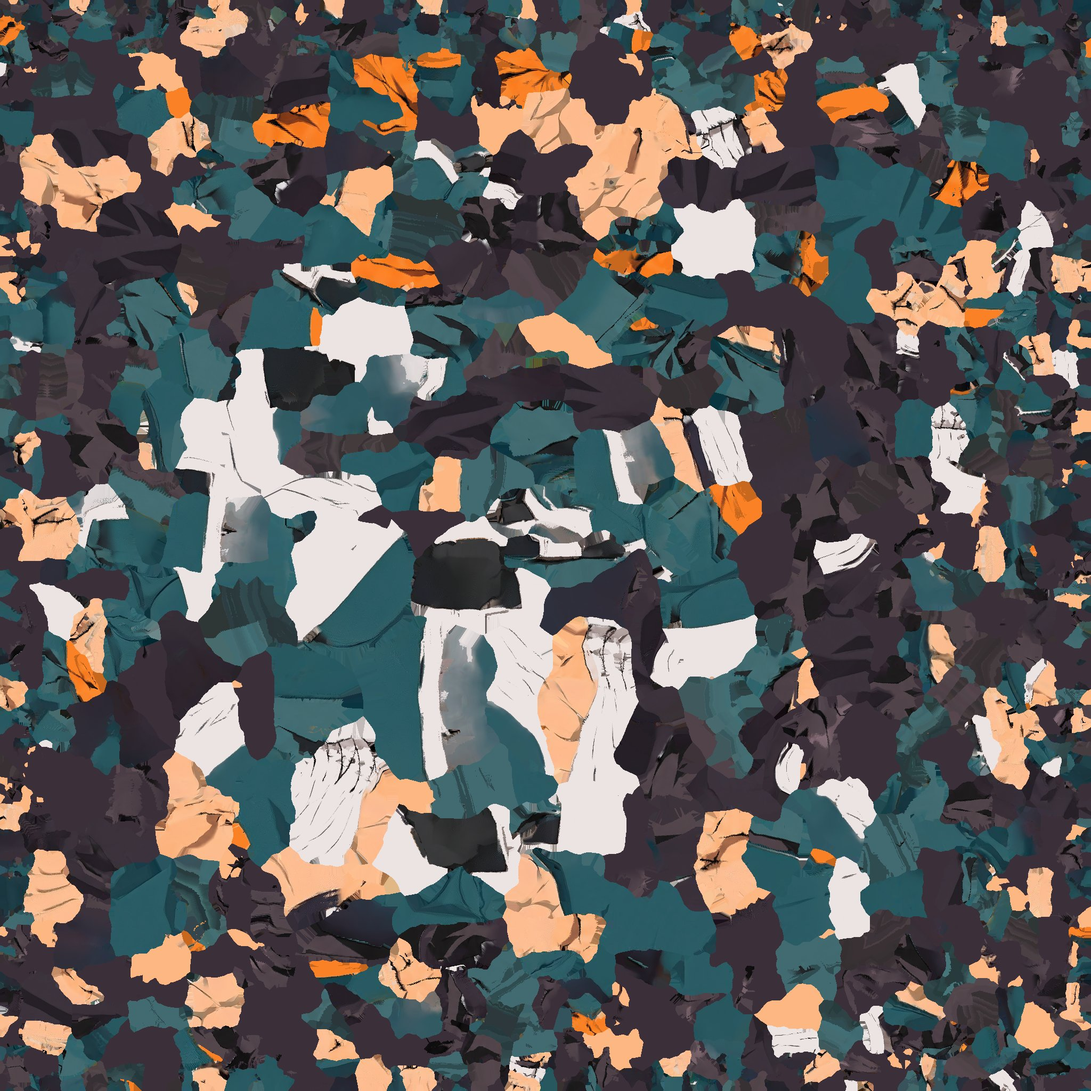
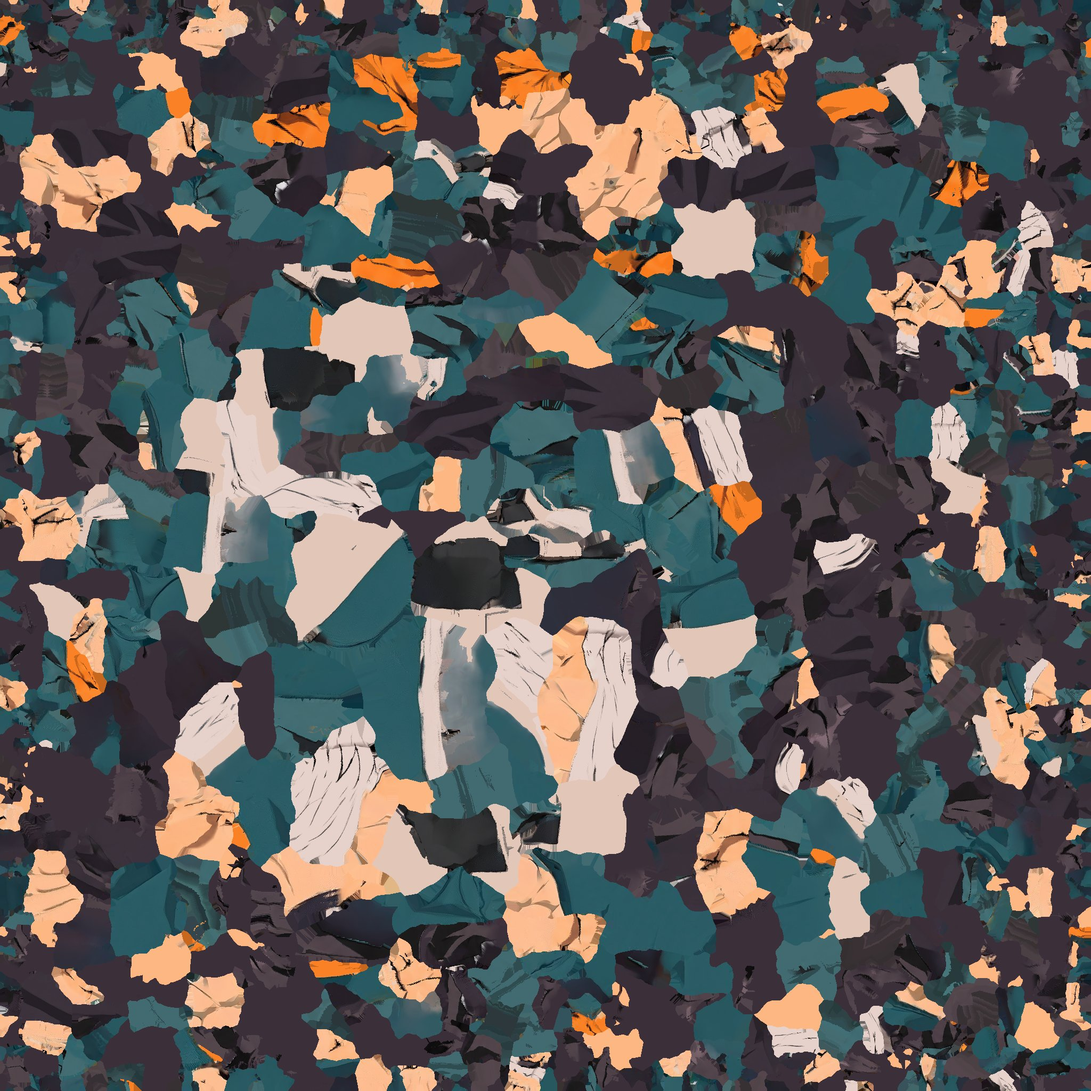
Anteprima di Ren: fasce e stivali nei colori del disegno
- Fasce di braccia e caviglie nel bianco caldo del disegno (230, 210, 202),
  con le righe del disegno dove guardano di fronte e le pieghe della
  fasciatura di Meshy sui lati (prima bianco freddo, alle caviglie senza
  righe).
- Bordini e suole degli stivali nel beige del disegno (prima bianchi).

Claude-Session: https://claude.ai/code/session_014XUVKvWBodq3kjfPiKyGRo

diff --git a/tools/paint_from_drawing.py b/tools/paint_from_drawing.py
@@ -282,25 +282,31 @@ inv_ = (pos[:, 1] > V_NECK[1] - .04) & (pos[:, 1] < V_TOP) & (pos[:, 2] > -.02) 
 oc = out[ys, xs]; mark = inv_ & (oc.mean(1) < skin_col.mean() - 40)
 out[ys[mark], xs[mark]] = skin_col
 print('chest under the new collar: %d dark texels of the old collar repainted skin' % int(mark.sum()))
-# --- the ankles' wraps (Denis's "niente cose strane"): the drawing's wrap lines, projected on the ankles' round sides,
-# stretched into grey and black smears; there Meshy's own paint (clean white wraps with soft folds): its light, grey
-# texels (min channel over WRAP_LIGHT, spread under WRAP_GREY) below WRAP_Y m, and the drawing's dark marks among them ---
-WRAP_LIGHT, WRAP_GREY, WRAP_Y = 150, 45, .32
-t0 = TEX[ys, xs]; wrapm = (t0.min(1) > WRAP_LIGHT) & (t0.max(1) - t0.min(1) < WRAP_GREY) & (pos[:, 1] < WRAP_Y)
-wrapm = ndimage.binary_dilation(np.zeros((TS, TS), bool) | _mark(ys[wrapm], xs[wrapm], TS), iterations=2)[ys, xs] & (pos[:, 1] < WRAP_Y) & (t0.mean(1) > 90)
-out[ys[wrapm], xs[wrapm]] = TEX[ys[wrapm], xs[wrapm]]
-print('ankle wraps: %d texels in Meshy\'s own clean paint' % int(wrapm.sum()))
-# and every wrap (forearms, ankles) a clean white with only the crisp dark lines kept (soft grey smudges, from Meshy's
-# baked shading and the drawing's blurred edges, read as dirt): white over WRAP_KEEP[0] of luminance, the line's own
-# colour under WRAP_KEEP[1], blended between
-WRAP_KEEP = (175., 95.)
-wr = (t0.min(1) > WRAP_LIGHT) & (t0.max(1) - t0.min(1) < WRAP_GREY) & ((HEADW[I[ks]] * bary).sum(1) < .5)
-# (on the forearms, all of Meshy's light grey too: its baked shading on the wraps; the skin and the wrist's band are not grey)
-wr |= ((FOREW[I[ks]] * bary).sum(1) > .5) & (t0.max(1) - t0.min(1) < 40) & (t0.mean(1) > 95)
-cw = out[ys[wr], xs[wr]]; lw = cw.mean(1); white = np.median(cw[lw > 200], 0) if (lw > 200).any() else np.array([235., 233, 230])
-keep = np.clip((WRAP_KEEP[0] - lw) / (WRAP_KEEP[0] - WRAP_KEEP[1]), 0, 1)[:, None]
-out[ys[wr], xs[wr]] = white * (1 - keep) + cw * keep
-print('wraps: %d texels cleaned to white %s, lines kept' % (int(wr.sum()), np.round(white)))
+# --- the wraps (forearms, ankles) and the boots' light parts (Denis, 8/11: "identico", "niente cose strane"): the
+# drawing's wraps, projected on their round sides, stretched into grey and black smears, and the toon light's bands made
+# grey blocks (ren_look.py gives them flat light). Now: the wrap's colour (WRAP_COL, the drawing's warm white) with the
+# drawing's lines only where the wrap faces the front (WRAP_FRONT: the normal's z where they start and where they are
+# whole; only lines darker than the wrap by WRAP_LINE are kept, soft smudges go); the boots' trim and soles (light in
+# Meshy's texture, under the top of the boots' teal straps) the drawing's beige (BOOT_COL). Meshy's wraps: its light grey
+# texels (every channel over WRAP_LIGHT, spread under WRAP_GREY) on the forearms and on the ankles (under WRAP_Y m, above
+# the boots), and its grey shading on the forearms.
+WRAP_LIGHT, WRAP_GREY, WRAP_Y, WRAP_FRONT, WRAP_LINE = 150, 45, .32, (.55, .75), 8.
+WRAP_COL, BOOT_COL = np.array([230., 210, 202]), np.array([226., 198, 184])
+t0 = TEX[ys, xs]; lightm = (t0.min(1) > WRAP_LIGHT) & (t0.max(1) - t0.min(1) < WRAP_GREY)
+forem = (FOREW[I[ks]] * bary).sum(1) > .5; lowm = pos[:, 1] < WRAP_Y
+tealm = (t0[:, 1] > t0[:, 0] + 10) & (t0[:, 2] > t0[:, 0] + 10)
+boot_top = float(np.percentile(pos[lowm & tealm, 1], 98))
+wr = ((lightm & (forem | (lowm & (pos[:, 1] > boot_top)))) | (forem & (t0.max(1) - t0.min(1) < 40) & (t0.mean(1) > 95))) & ((HEADW[I[ks]] * bary).sum(1) < .5)
+bootm = lightm & lowm & (pos[:, 1] <= boot_top)
+fw = np.clip((nor[:, 2] - WRAP_FRONT[0]) / (WRAP_FRONT[1] - WRAP_FRONT[0]), 0, 1) * vis
+# (where it does not face the front, Meshy's own wrap with its folds' lines, its white turned into the wrap's colour)
+mw = np.median(t0[wr & (t0.mean(1) > 200)], 0) if (wr & (t0.mean(1) > 200)).any() else np.array([240., 240, 240])
+src = col * fw[:, None] + np.clip(t0 * (WRAP_COL / mw), 0, 255) * (1 - fw[:, None])
+keep = np.clip((WRAP_COL.mean() - src.mean(1) - WRAP_LINE) / (WRAP_COL.mean() - 110), 0, 1)[:, None]
+out[ys[wr], xs[wr]] = (WRAP_COL * (1 - keep) + src * keep)[wr]
+out[ys[bootm], xs[bootm]] = BOOT_COL
+print('wraps: %d texels in the drawing\'s wrap colour (%d with its lines, facing the front); boots: %d light texels beige (their straps\' top at %.3f m)' % (
+    int(wr.sum()), int((wr & (fw > .5)).sum()), int(bootm.sum()), boot_top))
 # --- padding: every texel outside the triangles takes its nearest triangle texel's colour (the gutters between UV pieces
 # kept Meshy's old colours, which showed as thin cracks along the seams once filtered, the sash's orange most of all) ---
 inside = tid >= 0
